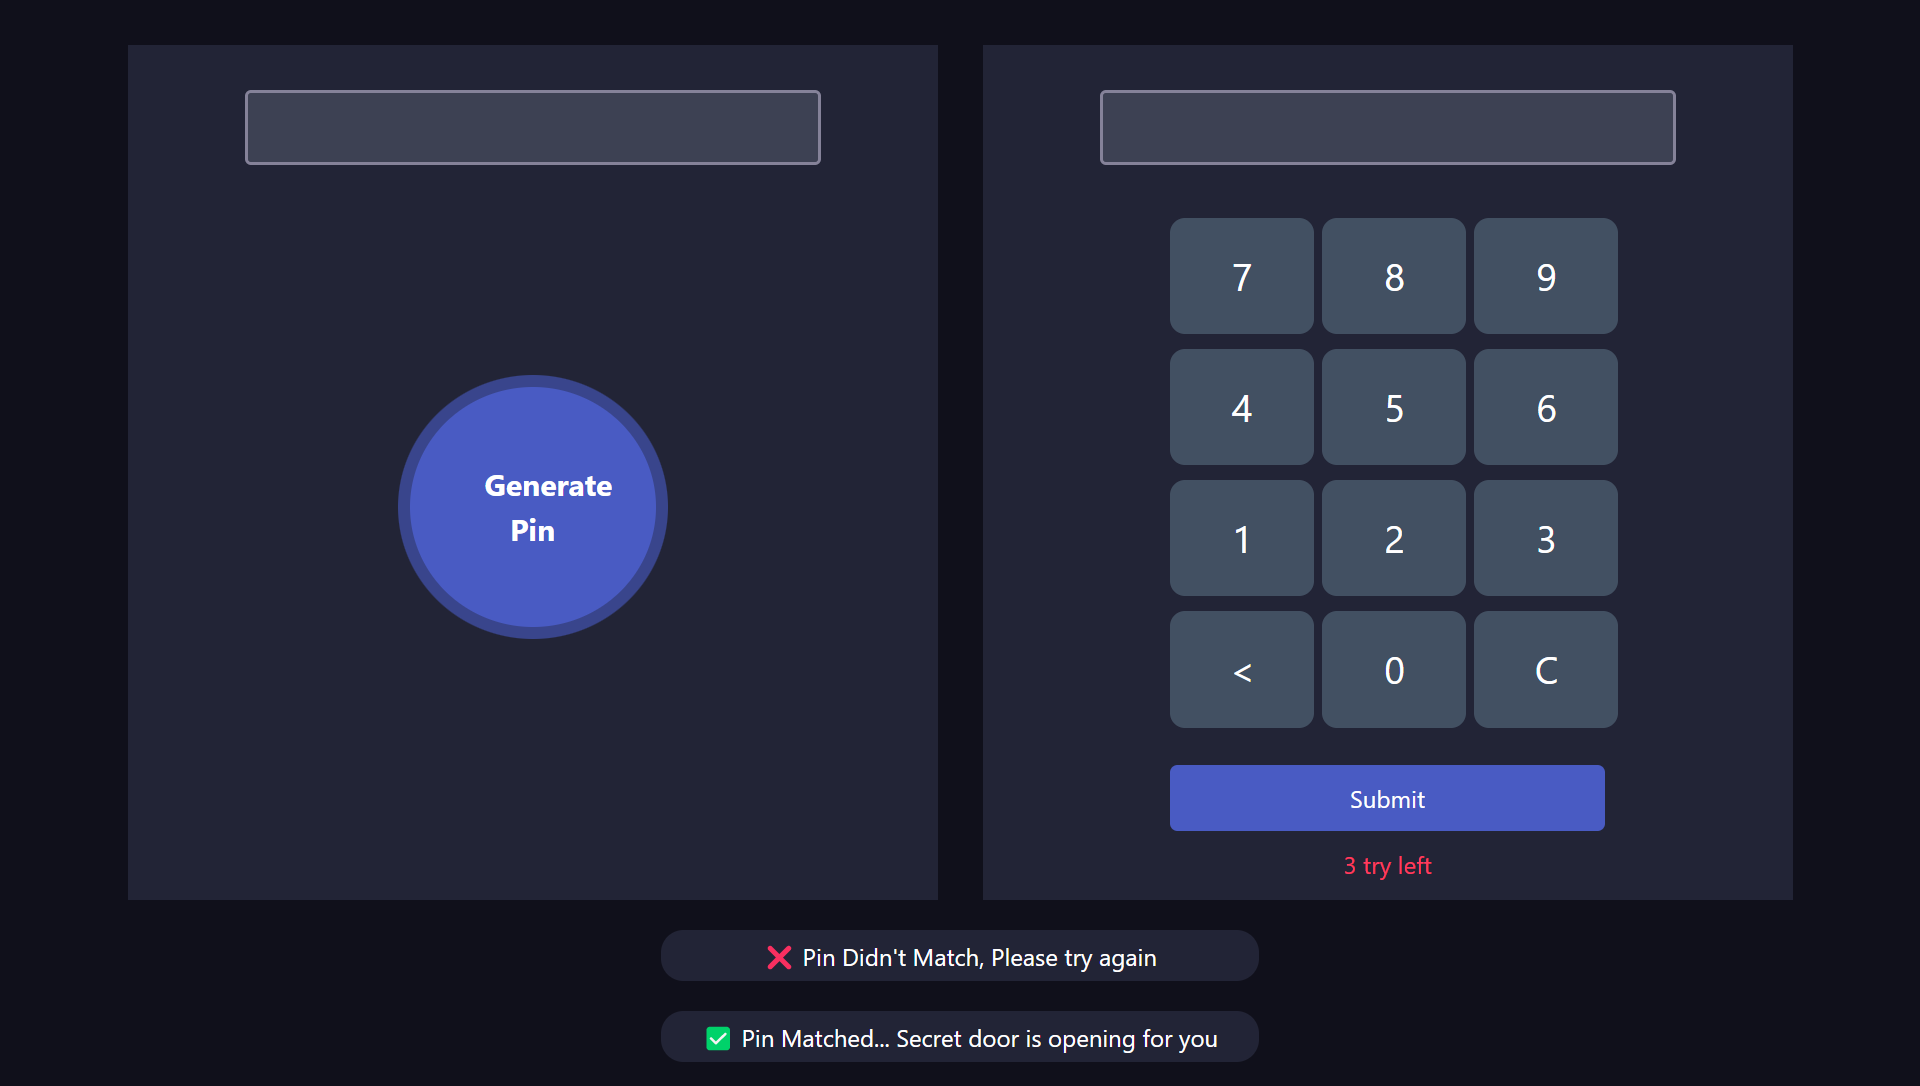
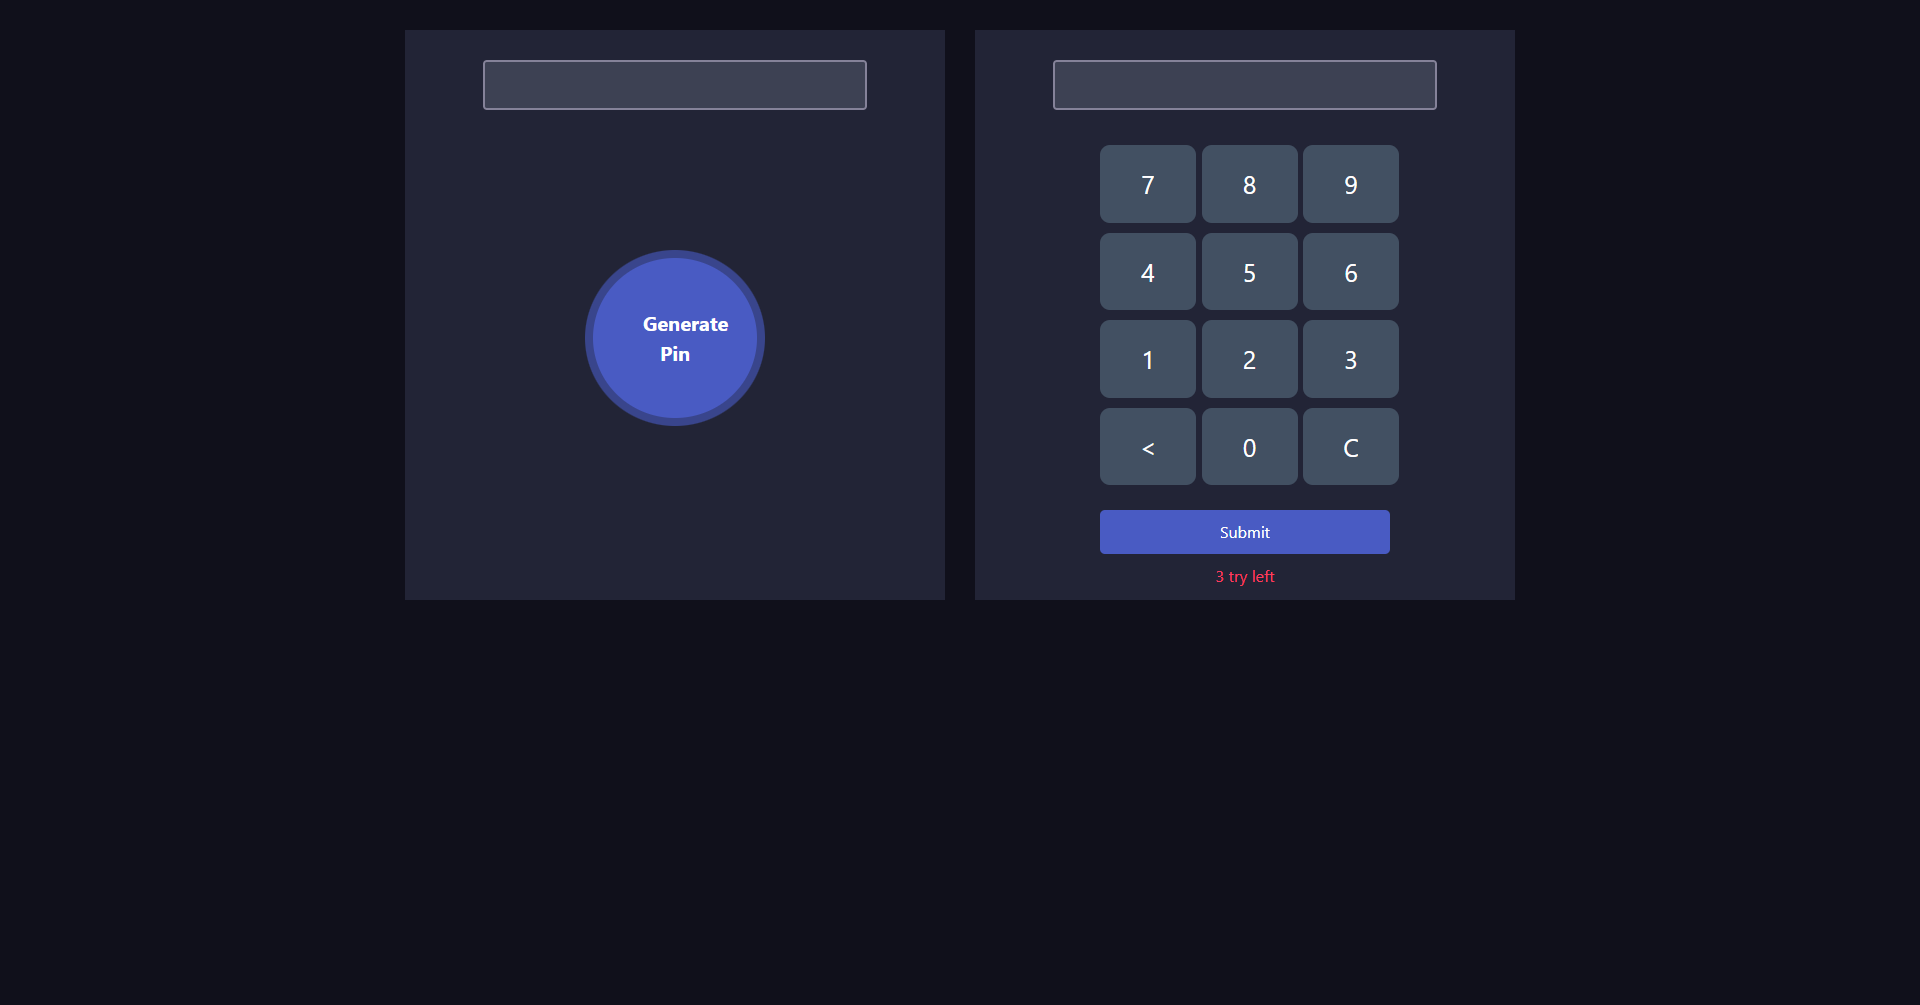
completed

diff --git a/index.html b/index.html
@@ -1,40 +1,43 @@
 <!DOCTYPE html>
 <html lang="en">
+
 <head>
     <meta charset="UTF-8">
     <meta name="viewport" content="width=device-width, initial-scale=1.0">
     <title>Pin Generator</title>
-    <link rel="stylesheet" href="https://stackpath.bootstrapcdn.com/bootstrap/4.5.0/css/bootstrap.min.css" integrity="sha384-9aIt2nRpC12Uk9gS9baDl411NQApFmC26EwAOH8WgZl5MYYxFfc+NcPb1dKGj7Sk" crossorigin="anonymous">
+    <link rel="stylesheet" href="https://stackpath.bootstrapcdn.com/bootstrap/4.5.0/css/bootstrap.min.css"
+        integrity="sha384-9aIt2nRpC12Uk9gS9baDl411NQApFmC26EwAOH8WgZl5MYYxFfc+NcPb1dKGj7Sk" crossorigin="anonymous">
     <link rel="stylesheet" href="style.css">
 </head>
+
 <body>
     <div class="container">
         <div class="row">
             <div class="col-md-6">
                 <div class="pin-generator half-width">
-                    <input class="form-control" type="text">
-                    <button class="generate-btn">Generate Pin</button>
+                    <input id="display-pin" class="form-control" type="text">
+                    <button id="generate-pin" class="generate-btn">Generate Pin</button>
                 </div>
             </div>
             <div class="col-md-6">
                 <div class="input-section half-width">
-                    <input class="form-control" type="text">
+                    <input id="typed-numbers" class="form-control" type="text">
                     <div class="numbers">
-                        <div class="calc-body">
+                        <div id="calculator" class="calc-body">
                             <div class="calc-button-row">
-                              <div class="button">7</div>
-                              <div class="button">8</div>
-                              <div class="button">9</div>
+                                <div class="button">7</div>
+                                <div class="button">8</div>
+                                <div class="button">9</div>
                             </div>
                             <div class="calc-button-row">
-                              <div class="button">4</div>
-                              <div class="button">5</div>
-                              <div class="button">6</div>
+                                <div class="button">4</div>
+                                <div class="button">5</div>
+                                <div class="button">6</div>
                             </div>
                             <div class="calc-button-row">
-                              <div class="button">1</div>
-                              <div class="button">2</div>
-                              <div class="button">3</div>
+                                <div class="button">1</div>
+                                <div class="button">2</div>
+                                <div class="button">3</div>
                             </div>
                             <div class="calc-button-row">
                                 <div class="button">&lt;</div>
@@ -42,17 +45,19 @@
                                 <div class="button">C</div>
                             </div>
                             <div>
-                                <button type="submit" class="submit-btn">Submit</button>
+                                <button id="verify-pin" type="submit" class="submit-btn">Submit</button>
                                 <p class="action-left">3 try left</p>
                             </div>
+                        </div>
                     </div>
                 </div>
             </div>
+            <div class="notify-section">
+                <p id="pin-failure" class="notify">❌ Pin Didn't Match, Please try again</p>
+                <p id="pin-success" class="notify">✅ Pin Matched... Secret door is opening for you</p>
+            </div>
         </div>
-        <div class="notify-section mb-3">
-            <p class="notify">❌ Pin Didn't Match, Please try again</p>
-            <p class="notify">✅ Pin Matched... Secret door is opening for you</p>
-        </div>
-    </div>
+        <script src="js/app.js"></script>
 </body>
+
 </html>

diff --git a/js/app.js b/js/app.js
@@ -1,0 +1,64 @@
+function getPin(){
+    const pin = generatePin();
+    const pinString = pin + '';
+    if(pinString.length === 4){
+        return pin;
+    }
+    else{
+        // console.log('pin not 3 digit found', pin);
+        return getPin();
+    }
+}
+
+function generatePin(){
+    const random = Math.round(Math.random()*10000);
+    return random;
+}
+
+document.getElementById('generate-pin').addEventListener('click', function(){
+    const pin = getPin();
+    // display Pin
+    const displayPinField = document.getElementById('display-pin');
+    displayPinField.value = pin;
+});
+
+document.getElementById('calculator').addEventListener('click', function(event){
+    const number = event.target.innerText;
+    const typedNumberField = document.getElementById('typed-numbers');
+    const previousTypedNumber = typedNumberField.value;
+    if(isNaN(number)){
+        if(number === 'C'){
+            typedNumberField.value = '';
+        }
+        else if (number === '<'){
+            const digits = previousTypedNumber.split('');
+            digits.pop();
+            const remainingDigits = digits.join('');
+            typedNumberField.value = remainingDigits;
+        }
+    }
+    else{
+        const newTypedNumber = previousTypedNumber + number;
+        typedNumberField.value = newTypedNumber;
+    }
+})
+
+document.getElementById('verify-pin').addEventListener('click', function(){
+    const displayPinField = document.getElementById('display-pin');
+    const currentPin = displayPinField.value;
+
+    const typedNumberField = document.getElementById('typed-numbers');
+    const typedNumber = typedNumberField.value;
+
+    const pinSuccessMessage = document.getElementById('pin-success');
+    const pinFailureMessage = document.getElementById('pin-failure');
+
+    if(typedNumber === currentPin){
+        pinSuccessMessage.style.display = 'block';
+        pinFailureMessage.style.display = 'none';
+    }
+    else{
+        pinFailureMessage.style.display = 'block';
+        pinSuccessMessage.style.display = 'none';
+    }
+})

diff --git a/style.css b/style.css
@@ -95,6 +95,7 @@ color: #E0B612;
     margin-top: 20px;
     border-radius: 15px;
     padding: 5px 20px;
+    display: none;
 }
 .notify-section{
     width: 35%;
